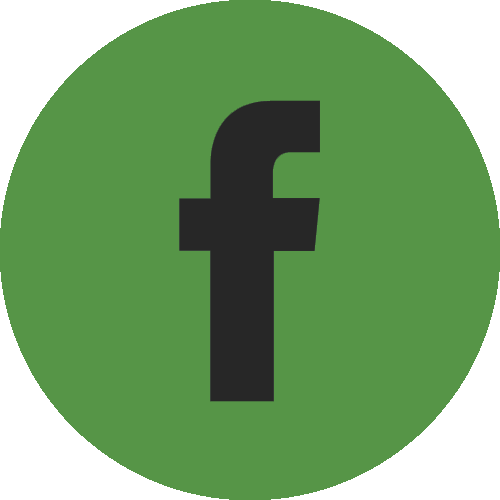
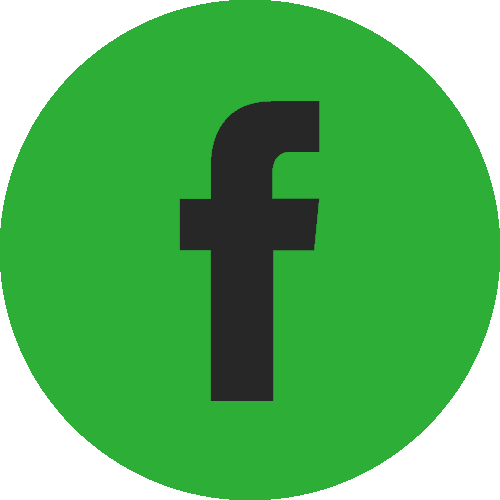
maj footer + animate

diff --git a/Le site/Views/js/animate.js b/Le site/Views/js/animate.js
@@ -1,0 +1,10 @@
+$(document).ready(function() {
+	$(window).scroll(function () {
+	var scrollTop = $(window).scrollTop();
+	var imgPos = -scrollTop / 2 + 'px';
+	$('.fond').css('background-position', 'center ' + imgPos);
+	});
+
+	$("#title-jumbotron").hide().fadeIn(3000);
+
+});
